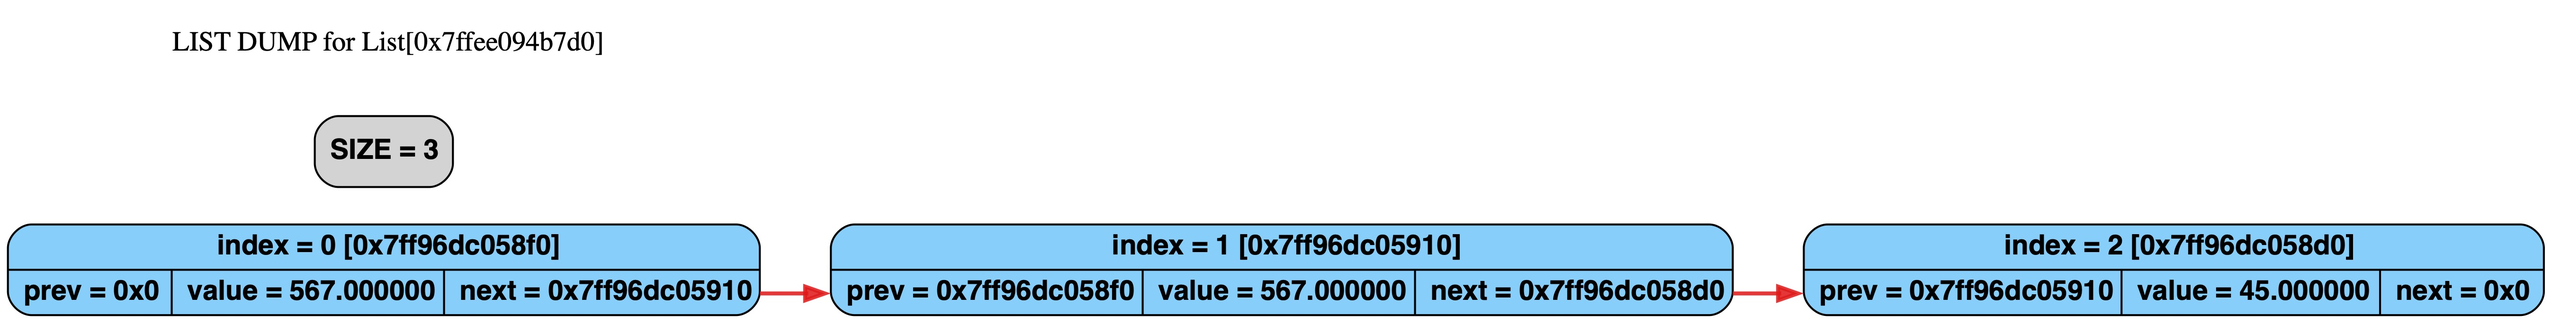
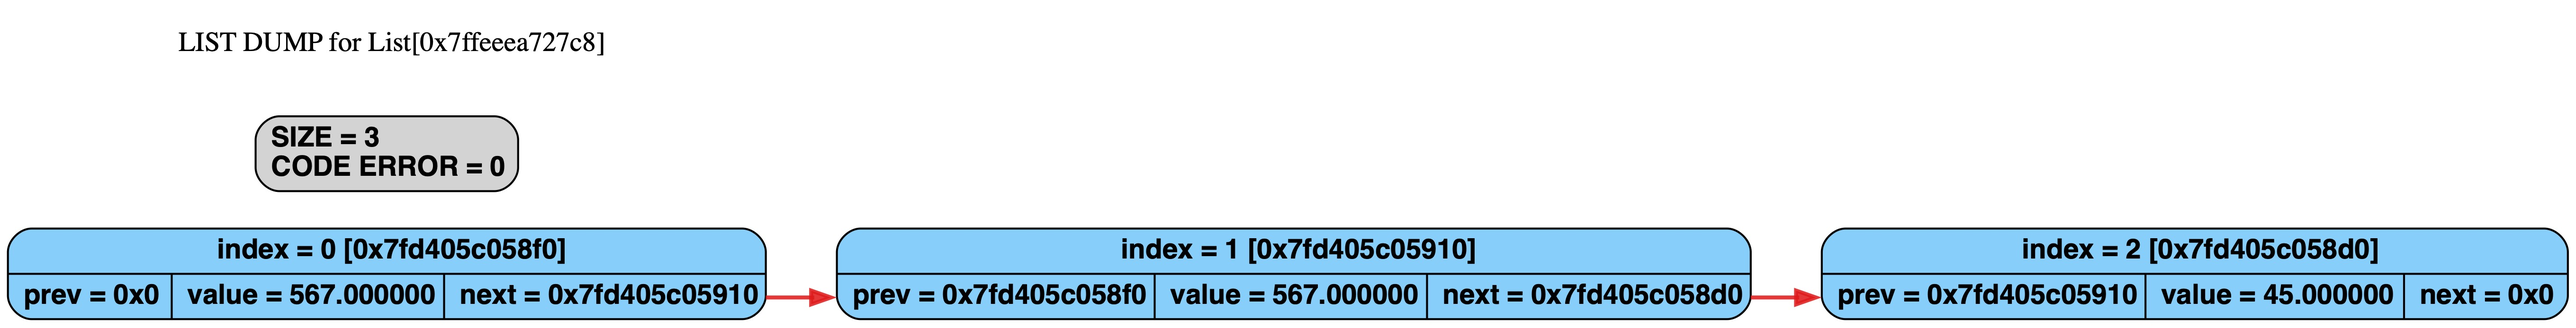
verifier for list_pointer plus

diff --git a/List_pointer/list_pointer.cpp b/List_pointer/list_pointer.cpp
@@ -5,15 +5,17 @@ int list_pointer_ctor (struct list_pointer_t* list_pointer)
     assert (list_pointer);
 
     list_pointer->size = 0;
-    list_pointer->head = 0;
-    list_pointer->tail = 0;
+    list_pointer->head = nullptr;
+    list_pointer->tail = nullptr;
+
+    list_pointer->code_error = 0;
 
     return GOOD_WORKING;
 }
 
 void list_pointer_dtor (struct list_pointer_t* list_pointer)
 {
-    assert (list_pointer);
+    ASSERT_OK (list_pointer);
 
     list_element* current_elem = list_pointer->head;
     list_element* next_elem = nullptr;
@@ -45,7 +47,7 @@ void list_pointer_dtor (struct list_pointer_t* list_pointer)
 
 int list_pointer_insert_first (struct list_pointer_t* list_pointer, elem_t value)
 {
-    assert (list_pointer);
+    ASSERT_OK (list_pointer);
 
     list_element* new_elem = (list_element*) calloc (1, sizeof(list_element));
     if (new_elem == nullptr)
@@ -62,12 +64,14 @@ int list_pointer_insert_first (struct list_pointer_t* list_pointer, elem_t value
     list_pointer->head = new_elem;
     list_pointer->tail = new_elem;
 
+    ASSERT_OK (list_pointer);
+
     return GOOD_WORKING;
 }
 
 int list_pointer_insert_before (struct list_pointer_t* list_pointer, elem_t value, int index) //____________
 {
-    assert (list_pointer);
+    ASSERT_OK (list_pointer);
 
     if (list_pointer->size == 0)
     {
@@ -83,7 +87,7 @@ int list_pointer_insert_before (struct list_pointer_t* list_pointer, elem_t valu
 
 int list_pointer_insert_after (struct list_pointer_t* list_pointer, elem_t value, int index)
 {
-    assert(list_pointer);
+    ASSERT_OK (list_pointer);
 
     if (list_pointer->size == 0)
     {
@@ -111,12 +115,14 @@ int list_pointer_insert_after (struct list_pointer_t* list_pointer, elem_t value
 
     list_pointer->size++;
 
+    ASSERT_OK (list_pointer);
+
     return GOOD_WORKING;
 }
 
 int list_pointer_insert_head (struct list_pointer_t* list_pointer, elem_t value)
 {
-    assert(list_pointer);
+    ASSERT_OK (list_pointer);
     
     if (list_pointer->size == 0)
     {
@@ -141,12 +147,14 @@ int list_pointer_insert_head (struct list_pointer_t* list_pointer, elem_t value)
 
     list_pointer->size++;
 
+    ASSERT_OK (list_pointer);
+
     return GOOD_WORKING;
 }
 
 int list_pointer_insert_tail (struct list_pointer_t* list_pointer, elem_t value)
 {
-    assert(list_pointer);
+    ASSERT_OK (list_pointer);
 
     if (list_pointer->size == 0)
     {
@@ -170,13 +178,15 @@ int list_pointer_insert_tail (struct list_pointer_t* list_pointer, elem_t value)
     list_pointer->tail = new_elem;
 
     list_pointer->size++;
+
+    ASSERT_OK (list_pointer);
     
     return GOOD_WORKING;
 }
 
 int list_pointer_delete (struct list_pointer_t* list_pointer, int index)
 {
-    assert (list_pointer);
+    ASSERT_OK (list_pointer);
 
     list_element* current_elem = list_pointer_find_element_by_index (list_pointer, index);
 
@@ -209,6 +219,8 @@ int list_pointer_delete (struct list_pointer_t* list_pointer, int index)
 
     list_pointer->size--;
 
+    ASSERT_OK (list_pointer);
+
     return GOOD_WORKING;
 }
 
@@ -216,7 +228,7 @@ int list_pointer_delete (struct list_pointer_t* list_pointer, int index)
 
 list_element* list_pointer_find_element_by_index (struct list_pointer_t* list_pointer, int index)
 {
-    assert(list_pointer);
+    ASSERT_OK (list_pointer);
 
     list_element* current_elem = list_pointer->head;
 
@@ -230,21 +242,21 @@ list_element* list_pointer_find_element_by_index (struct list_pointer_t* list_po
 
 list_element* list_pointer_head_element (struct list_pointer_t* list_pointer)
 {
-    assert(list_pointer);
+    ASSERT_OK (list_pointer);
 
     return list_pointer->head;
 }
 
 list_element* list_pointer_tail_element (struct list_pointer_t* list_pointer)
 {
-    assert(list_pointer);
+    ASSERT_OK (list_pointer);
 
     return list_pointer->tail;
 }
 
 list_element* list_pointer_next_element(struct list_pointer_t* list_pointer, struct list_element* current_elem)
 {
-    assert (list_pointer);
+    ASSERT_OK (list_pointer);
     assert (current_elem);
 
     return current_elem->next;
@@ -252,7 +264,7 @@ list_element* list_pointer_next_element(struct list_pointer_t* list_pointer, str
 
 list_element* list_pointer_prev_element(struct list_pointer_t* list_pointer, struct list_element* current_elem)
 {
-    assert (list_pointer);
+    ASSERT_OK (list_pointer);
     assert (current_elem);
 
     return current_elem->prev;
@@ -260,7 +272,7 @@ list_element* list_pointer_prev_element(struct list_pointer_t* list_pointer, str
 
 elem_t list_pointer_value_element (struct list_pointer_t* list_pointer, int index) //___________________
 {
-    assert (list_pointer);
+    ASSERT_OK (list_pointer);
 
     list_element* current_elem = list_pointer_find_element_by_index (list_pointer, index);
 
@@ -309,8 +321,8 @@ int list_pointer_graph_dump (struct list_pointer_t* list_pointer)
     }
 
     fprintf (list_log_graph,    "\t\"LIST_INFO\" [shape = \"record\", style = \"rounded, filled\", fontname = \"Helvetica-Bold\"\n\t\t\t\t "
-				                "label = \"SIZE = %lu\"]\n",
-                                list_pointer->size );
+				                "label = \"SIZE = %lu\\lCODE ERROR = %lu\"]\n",
+                                list_pointer->size, list_pointer->code_error);
     fprintf(list_log_graph, "\t\"LIST DUMP for List[%p]\"[color = \"white\"]\t", list_pointer);
 
     if (list_pointer->size == 1)
@@ -340,6 +352,24 @@ int list_pointer_graph_dump (struct list_pointer_t* list_pointer)
     system("dot -Tjpeg -oList_pointer/graph_log_list.jpeg List_pointer/graph_log.dot");
 
     return GOOD_WORKING;
+}
+
+int list_pointer_error (struct list_pointer_t* list_pointer)
+{
+#ifndef NDEBUG
+    int pointer_list_check_null = ((!list_pointer) ? LIST_ERROR_POINTER_STRUCT_NULL : 0);
+
+    if (pointer_list_check_null == 0)
+    {
+        list_pointer->code_error |= CHECK_ERROR (!list_pointer->head && (list_pointer->size > 1), LIST_ERROR_HEAD_NULL);
+        list_pointer->code_error |= CHECK_ERROR (!list_pointer->tail && (list_pointer->size > 1), LIST_ERROR_TAIL_NULL);
+        list_pointer->code_error |= CHECK_ERROR (list_pointer->size < 0,                          LIST_ERROR_SIZE_SMALLER_ZERO);
+    }
+
+    return list_pointer->code_error;
+#else
+    return GOOD_WORKING;
+#endif
 }
 
 int isnan (double number)

diff --git a/List_pointer/list_pointer.h b/List_pointer/list_pointer.h
@@ -13,6 +13,29 @@ typedef double elem_t;
 
 #define specifier_elem_t "%lf"
 
+#ifndef NDEBUG
+#define ASSERT_OK(list_pointer) do                                                      \
+                                {                                                       \
+                                    if (list_pointer_error (list_pointer) != 0)         \
+                                    {                                                   \
+                                        list_pointer_graph_dump (list_pointer);         \
+                                        abort ();                                       \
+                                    }                                                   \
+                                } while (0)
+
+#define CHECK_ERROR(condition, error) (condition) ? error : 0
+
+#define PRINT_ERROR(code_of_error_programm, error)  if (code_of_error_programm & error)                         \
+                                                    {                                                           \
+                                                        fprintf (list_log_file, "%s\n", #error);                \
+                                                    }
+
+#else
+#define ASSERT_OK(list_pointer)
+#define CHECK_ERROR(condition, error)
+#define PRINT_ERROR(code_of_error_programm, error)
+#endif
+
 const elem_t POISON_VALUE = NAN;
 const size_t SIZE_DTOR_VALUE = 0xBABADEDA;
 const int INT_DTOR_VALUE = 0xADAFDADA;
@@ -31,6 +54,8 @@ struct list_pointer_t
     struct list_element* tail;
 
     size_t size;
+
+    size_t code_error;
 };
 
 int list_pointer_ctor (struct list_pointer_t* list_pointer);
@@ -70,6 +95,8 @@ size_t list_pointer_size (struct list_pointer_t* list_pointer);
 //----------------------------------------------------------------------------
 
 int list_pointer_graph_dump (struct list_pointer_t* list_pointer);
+
+int list_pointer_error (struct list_pointer_t* list_pointer);
 
 int isnan (double number); 
 

diff --git a/List_pointer/enum.h b/List_pointer/enum.h
@@ -11,4 +11,11 @@ enum ERROR_FUNCTION {
     ERROR_FILE_CLOSE = 4,
 };
 
+enum LIST_ERROR {
+    LIST_ERROR_POINTER_STRUCT_NULL        = 1 << 0,
+    LIST_ERROR_HEAD_NULL                  = 1 << 1,
+    LIST_ERROR_TAIL_NULL                  = 1 << 2,
+    LIST_ERROR_SIZE_SMALLER_ZERO          = 1 << 3,
+};
+
 #endif // ENUM_H
